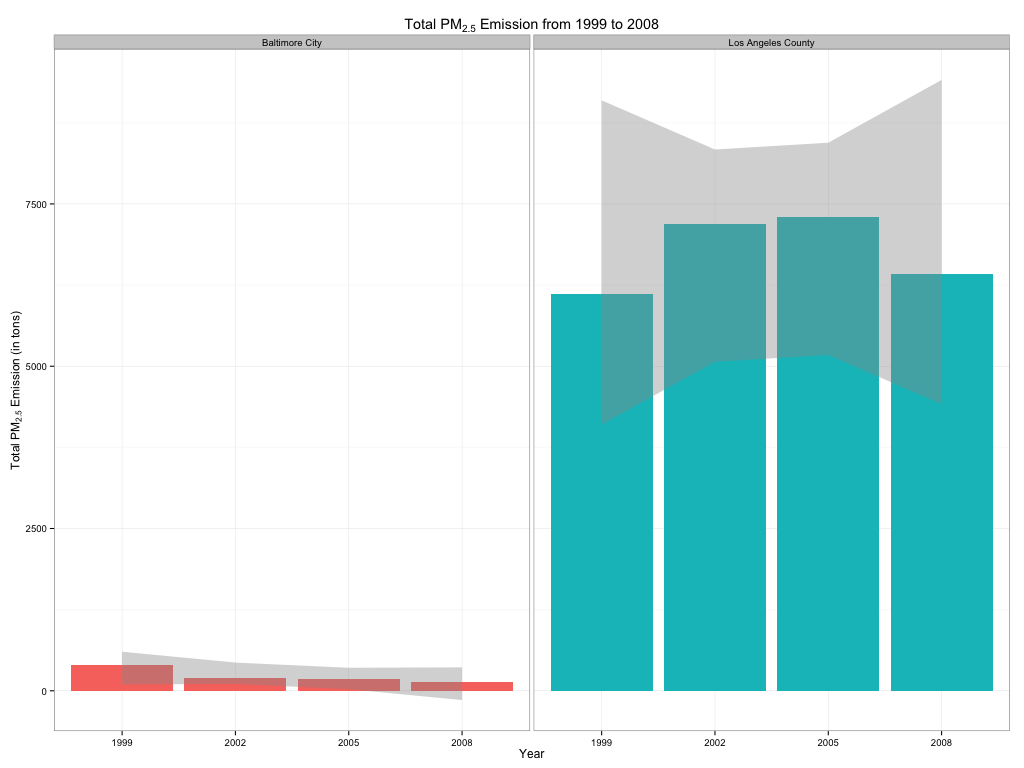
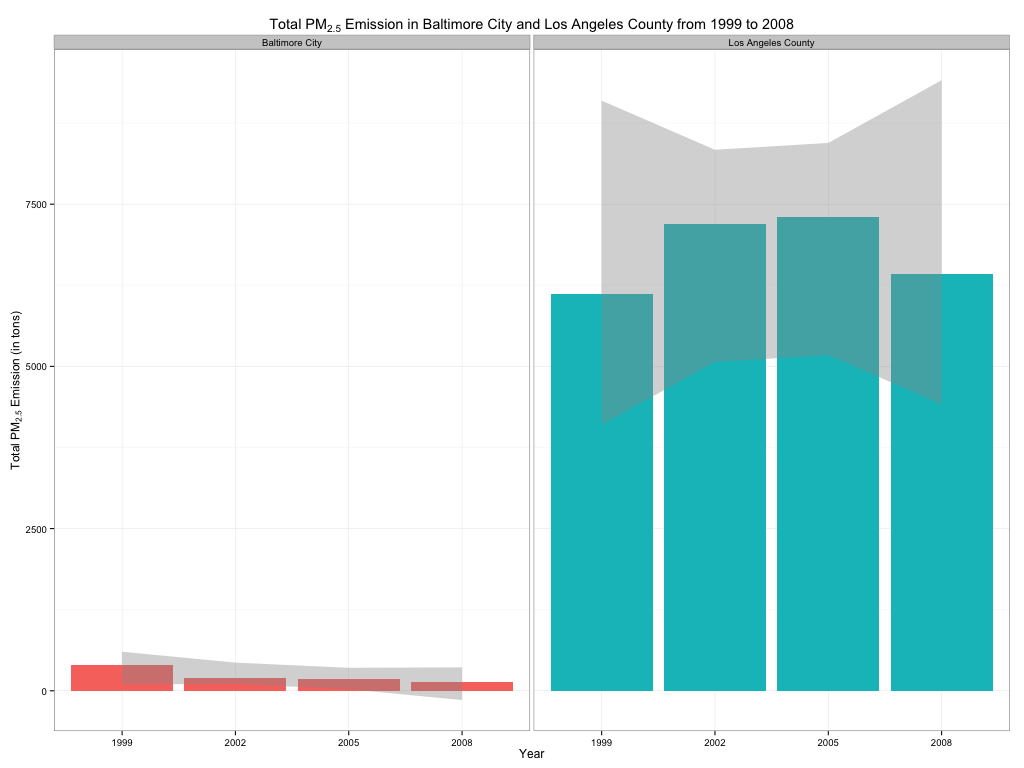
cleanup

Changed region(s): [[0.2812, 0.0, 0.7812, 0.0625]]

diff --git a/exploratory-data-analysis/course-project-2/README.md b/exploratory-data-analysis/course-project-2/README.md
@@ -30,14 +30,14 @@ df <- tbl_df(NEI) %>%
       summarise_each(funs(sum), Emissions) %>%  # calculate sum of emissions by year
       mutate_each(funs(. / 1000), Emissions)    # convert tons of emissions to thousands of tons
 
-png(file = "plot1.png", width = 1280, height = 768)
+png(file = "plot1.png", width = 1024, height = 768)
 with(df, {
   plot(Emissions ~ year,
     type = "n",
     xaxt = "n",
     xlab = "Year",
     ylab = expression("Total PM"[2.5] * " Emission (in thousands of tons)"),
-    main = expression("Total PM"[2.5] * " Emission (1999 — 2008)"))
+    main = expression("Total PM"[2.5] * " Emission in the United States from 1999 to 2008"))
   axis(side = 1, at = c("1999", "2002", "2005", "2008"))
   abline(lm(Emissions ~ year), col = "blue", lwd = 3, lty = "dashed")
   points(Emissions ~ year, pch = 4, col = "red")
@@ -60,14 +60,14 @@ df <- tbl_df(NEI) %>%
       group_by(year) %>%                    # group observations by year
       summarise_each(funs(sum), Emissions)  # calculate sum of emissions by year
 
-png(file = "plot2.png", width = 1280, height = 768)
+png(file = "plot2.png", width = 1024, height = 768)
 with(df, {
   plot(Emissions ~ year,
     type = "n",
     xaxt = "n",
     xlab = "Year",
     ylab = expression("Total PM"[2.5] * " Emission (in tons)"),
-    main = expression("Total PM"[2.5] * " Emission in Baltimore (1999 — 2008)"))
+    main = expression("Total PM"[2.5] * " Emission in the Baltimore City, Maryland from 1999 to 2008"))
   axis(side = 1, at = c("1999", "2002", "2005", "2008"))
   abline(lm(Emissions ~ year), col = "blue", lwd = 3, lty = "dashed")
   points(Emissions ~ year, pch = 4, col = "red")
@@ -92,7 +92,7 @@ df <- tbl_df(NEI) %>%
       group_by(type, year) %>%              # group observations by type and year
       summarise_each(funs(sum), Emissions)  # calculate sum of emissions by year
 
-png(file = "plot3.png", width = 1280, height = 768)
+png(file = "plot3.png", width = 1024, height = 768)
 
 g <- ggplot(df, aes(x=factor(year), Emissions))
 g + geom_smooth(aes(group=1), method="lm") +
@@ -102,7 +102,7 @@ g + geom_smooth(aes(group=1), method="lm") +
     facet_wrap(~type, nrow = 2) +
     labs(x = "Year") +
     labs(y = expression("Total PM"[2.5] * " Emission (in tons)")) +
-    labs(title = expression("Total PM"[2.5] * " Emission in Baltimore by type (1999 — 2008)"))
+    labs(title = expression("Total PM"[2.5] * " Emission in the Baltimore City, Maryland from 1999 to 2008"))
 
 dev.off()
 ```
@@ -127,7 +127,7 @@ df <- tbl_df(NEI) %>%
       summarise_each(funs(sum), Emissions) %>%                    # calculate sum of emissions by year
       mutate_each(funs(. / 1000), Emissions)                      # convert tons of emissions to thousands of tons
 
-png(file = "plot4.png", width = 1280, height = 768)
+png(file = "plot4.png", width = 1024, height = 768)
 
 g <- ggplot(df, aes(x=factor(year), Emissions))
 g + geom_bar(aes(fill=year), stat = "identity") +
@@ -135,7 +135,7 @@ g + geom_bar(aes(fill=year), stat = "identity") +
     theme_bw() +
     labs(x = "Year") +
     labs(y = expression("Total PM"[2.5] * " Emission (in thousands of tons)")) +
-    labs(title = expression("Coal combustion-related PM"[2.5] * " Emission (1999 — 2008)"))
+    labs(title = expression("Coal combustion-related PM"[2.5] * " Emission in the United States from 1999 to 2008"))
 
 dev.off()
 ```
@@ -159,7 +159,7 @@ df <- tbl_df(NEI) %>%
       group_by(year) %>%                                            # group observations by year
       summarise_each(funs(sum), Emissions)                          # calculate sum of emissions by year
 
-png(file = "plot5.png", width = 1280, height = 768)
+png(file = "plot5.png", width = 1024, height = 768)
 
 g <- ggplot(df, aes(x=factor(year), Emissions))
 g + geom_bar(aes(fill=year), stat = "identity") +
@@ -167,7 +167,7 @@ g + geom_bar(aes(fill=year), stat = "identity") +
     theme_bw() +
     labs(x = "Year") +
     labs(y = expression("Total PM"[2.5] * " Emission (in tons)")) +
-    labs(title = expression("Motor vehicle PM"[2.5] * " Emission in Baltimore (1999 — 2008)"))
+    labs(title = expression("Motor vehicle PM"[2.5] * " Emission in the Baltimore City, Maryland from 1999 to 2008"))
 
 dev.off()
 ```
@@ -196,7 +196,7 @@ df <- tbl_df(NEI) %>%
       group_by(city, year) %>%                                      # group observations by city and year
       summarise_each(funs(sum), Emissions)                          # calculate sum of emissions by year
 
-png(file = "plot6.png", width = 1280, height = 768)
+png(file = "plot6.png", width = 1024, height = 768)
 
 g <- ggplot(df, aes(x = factor(year), Emissions))
 g + geom_bar(aes(fill = city), stat = "identity") +
@@ -206,7 +206,7 @@ g + geom_bar(aes(fill = city), stat = "identity") +
     facet_wrap(~city) +
     labs(x = "Year") +
     labs(y = expression("Total PM"[2.5] * " Emission (in tons)")) +
-    labs(title = expression("Total PM"[2.5] * " Emission (1999 — 2008)"))
+    labs(title = expression("Total PM"[2.5] * " Emission in Baltimore City and Los Angeles County from 1999 to 2008"))
 
 dev.off()
 ```
